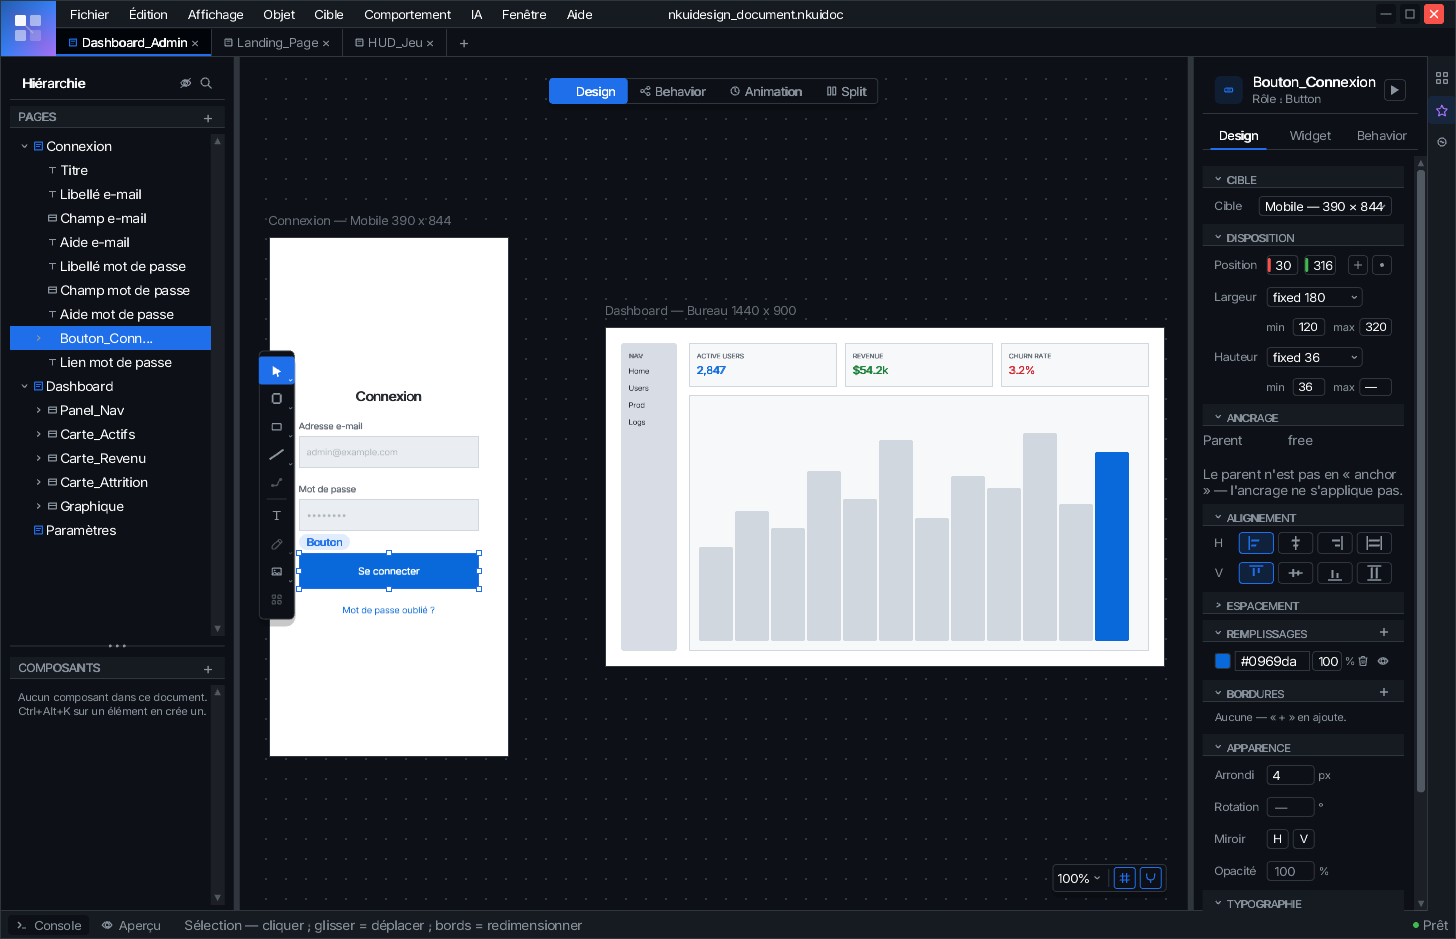
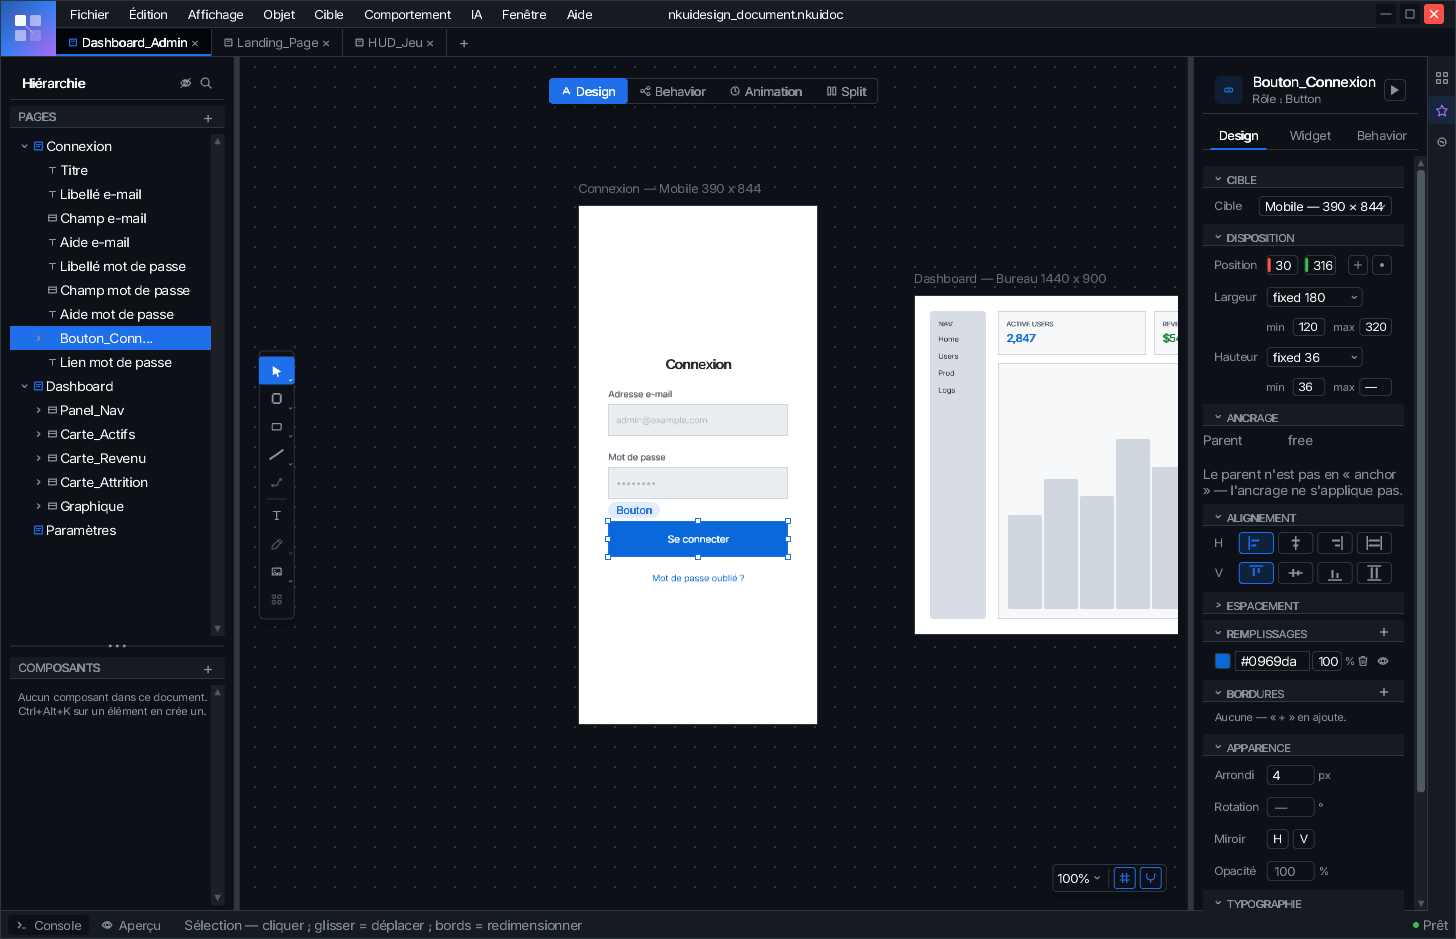
NkUIDesign : tranche 4 (InspectorPanel) -- LA GRILLE NOMMEE, 105 -> 86 sites, zero pixel
Lecture des 58 sites restants de l'InspectorPanel. Le gros n'etait ni marge
ni caprice : c'etait LA GRILLE, jamais nommee.

- ColChamps = 52 (Costume.h) : ou commencent les champs apres le libelle de
  rangee. SEPT sites recopiaient 52 ; les variantes improvisees
  (28/40/44/56/64/76) restent comptees -- c'est la dette de grille, visible,
  a trancher plus tard (unifier changerait beaucoup de rangees d'un coup).
- ColMiniLabel = 26 : la mini-colonne des libelles min/max (4 sites).
- Derives : pastilles 16 px -> (HRangee-16)/2 (3 sites), icones de mode
  8 px -> (HControle-8)/2 (2), boutons d'alignement de texte et boutons
  miroir -> BandeY + HControle (4, dont le pas des boutons miroir ecrit
  22 + EspSerre au lieu de 26).

⚠ Les largeurs de colonnes ne vivent PAS sur l'echelle d'espacement (elle
discipline les marges) : elles se NOMMENT, pour qu'une rangee ne puisse plus
improviser la sienne. C'est ecrit dans Costume.h a cote des constantes.

A/B : premiere comparaison invalidee A TEMPS -- la base (t2_sel_n1) precedait
le cadrage E3, donc tout l'ecran differait : temoin perime, detecte avant de
juger. Paire refaite par stash sur le meme HEAD : diff = AUCUN pixel. La
reference commitee inspecteur_selection (elle aussi anterieure a E3) est
regeneree ; la paire du panneau IA reste valable (confinee au panneau, que
E3 ne touche pas).

Coupure reseau en plein A/B : etat des lieux fait a la reprise (aucun stash
[…]

Changed region(s): [[0.1854, 0.1853, 0.8345, 0.8339]]

diff --git a/Applications/NKUIDesign/src/NKUIDesign/Panels.h b/Applications/NKUIDesign/src/NKUIDesign/Panels.h
@@ -9410,7 +9410,7 @@ namespace nkuidesign {
 					const float32 x0 = r.x + 12.f, x1 = r.x + r.w - 12.f;
 					costume::Texte(dl, F.px10, x0, costume::CentrerBande(F.px10, r.y),
 								   "Position", ctx.theme.textMuted);
-					const float32 champs0 = x0 + 52.f;
+					const float32 champs0 = x0 + costume::ColChamps;
 					const float32 wBtns = 2.f * 20.f + 4.f;
 					const float32 colW = (x1 - champs0 - wBtns - 12.f) * 0.5f;
 					const NkRect rx = {champs0, costume::BandeY(r.y), colW - 3.f, costume::HControle};
@@ -9568,7 +9568,7 @@ namespace nkuidesign {
 				const float32 x0 = r.x + 12.f;
 				costume::Texte(dl, F.px10, x0, costume::CentrerBande(F.px10, r.y), titre,
 							   ctx.theme.textMuted);
-				const NkRect rb = {x0 + 52.f, costume::BandeY(r.y), 96.f, costume::HControle};
+				const NkRect rb = {x0 + costume::ColChamps, costume::BandeY(r.y), 96.f, costume::HControle};
 				char b[96];
 				if (metrique)
 					snprintf(b, sizeof(b), "« %s »", d.valueMetric);
@@ -9602,15 +9602,17 @@ namespace nkuidesign {
 				// référence les résume en texte, l'édition prime — écart nommé).
 				{
 					const NkRect r2 = ctx.NextItemRect(-1.f, 22.f);
-					const float32 mx0 = r2.x + 12.f + 52.f;
+					const float32 mx0 = r2.x + 12.f + costume::ColChamps;
 					const float32 moitie = (r2.x + r2.w - 12.f - mx0 - 8.f) * 0.5f;
 					costume::Texte(dl, F.px9, mx0, costume::CentrerY(F.px9, r2.y + 2.f, 18.f),
 								   "min", ctx.theme.textMuted);
-					const NkRect rmin = {mx0 + 26.f, r2.y + 2.f, moitie - 26.f, 18.f};
+					const NkRect rmin = {mx0 + costume::ColMiniLabel, r2.y + 2.f,
+										 moitie - costume::ColMiniLabel, 18.f};
 					const float32 mx1 = mx0 + moitie + 8.f;
 					costume::Texte(dl, F.px9, mx1, costume::CentrerY(F.px9, r2.y + 2.f, 18.f),
 								   "max", ctx.theme.textMuted);
-					const NkRect rmax = {mx1 + 26.f, r2.y + 2.f, moitie - 26.f, 18.f};
+					const NkRect rmax = {mx1 + costume::ColMiniLabel, r2.y + 2.f,
+										 moitie - costume::ColMiniLabel, 18.f};
 					char id[48];
 					snprintf(id, sizeof(id), "insp.dmin.%s", titre);
 					bool bouge = ChampNombre(ctx, id, rmin, d.minVal, 1.f, 0.f, 4096.f, true, true);
@@ -10116,8 +10118,8 @@ namespace nkuidesign {
 																				 : 0;
 					static const char *const kCles[3] = {"gauche", "centre", "droite"};
 					for (int32 i = 0; i < 4; ++i) {
-						const NkRect cb = {champs0 + (btnW + 4.f) * (float32)i, r.y + 3.f, btnW,
-										   20.f};
+						const NkRect cb = {champs0 + (btnW + 4.f) * (float32)i, costume::BandeY(r.y),
+										   btnW, costume::HControle};
 						const bool actif = (i == courant);
 						if (actif) {
 							NkColor voile = ctx.theme.accent;
@@ -10165,8 +10167,8 @@ namespace nkuidesign {
 					const float32 champs0 = x0 + wLib;
 					const float32 btnW = (x1 - champs0 - 2.f * 4.f) / 3.f;
 					for (int32 i = 0; i < 3; ++i) {
-						const NkRect cb = {champs0 + (btnW + 4.f) * (float32)i, r.y + 3.f, btnW,
-										   20.f};
+						const NkRect cb = {champs0 + (btnW + 4.f) * (float32)i, costume::BandeY(r.y),
+										   btnW, costume::HControle};
 						dl.AddRectFilled(cb, CouleurInput(), 4.f);
 						dl.AddRect(cb, ctx.theme.border, 1.f, 4.f);
 						const float32 cxg = cb.x + cb.w * 0.5f;
@@ -10318,9 +10320,11 @@ namespace nkuidesign {
 				BoiteChamp(ctx, rb, b);
 				// l'icône du mode, à droite dans la boîte
 				if (d.mode == NkSizeMode::Expand)
-					costume::IcExpand(dl, rb.x + rb.w - 14.f, rb.y + 6.f, ctx.theme.accent);
+					costume::IcExpand(dl, rb.x + rb.w - 14.f,
+									  rb.y + (costume::HControle - 8.f) * 0.5f, ctx.theme.accent);
 				else if (d.mode == NkSizeMode::Fixed)
-					costume::IcFixed(dl, rb.x + rb.w - 14.f, rb.y + 6.f, ctx.theme.textMuted);
+					costume::IcFixed(dl, rb.x + rb.w - 14.f,
+									 rb.y + (costume::HControle - 8.f) * 0.5f, ctx.theme.textMuted);
 				// la valeur s'édite au glisser (quand elle existe et qu'aucune
 				// métrique ne prime)
 				if (porteValeur && !metrique) {
@@ -10337,15 +10341,17 @@ namespace nkuidesign {
 				}
 				// min / max en retrait
 				const NkRect r2 = ctx.NextItemRect(-1.f, 22.f);
-				const float32 mx0 = r2.x + 12.f + 52.f;
+				const float32 mx0 = r2.x + 12.f + costume::ColChamps;
 				const float32 moitie = (r2.x + r2.w - 12.f - mx0 - 8.f) * 0.5f;
 				costume::Texte(dl, F.px9, mx0, costume::CentrerY(F.px9, r2.y + 2.f, 18.f), "min",
 							   ctx.theme.textMuted);
-				const NkRect rmin = {mx0 + 26.f, r2.y + 2.f, moitie - 26.f, 18.f};
+				const NkRect rmin = {mx0 + costume::ColMiniLabel, r2.y + 2.f,
+										 moitie - costume::ColMiniLabel, 18.f};
 				const float32 mx1 = mx0 + moitie + 8.f;
 				costume::Texte(dl, F.px9, mx1, costume::CentrerY(F.px9, r2.y + 2.f, 18.f), "max",
 							   ctx.theme.textMuted);
-				const NkRect rmax = {mx1 + 26.f, r2.y + 2.f, moitie - 26.f, 18.f};
+				const NkRect rmax = {mx1 + costume::ColMiniLabel, r2.y + 2.f,
+										 moitie - costume::ColMiniLabel, 18.f};
 				char id[48];
 				snprintf(id, sizeof(id), "insp.min.%s", titre);
 				bool bouge = false;
@@ -10722,7 +10728,8 @@ namespace nkuidesign {
 				const float32 x0 = r.x + 12.f, x1 = r.x + r.w - 12.f;
 				costume::Texte(dl, F.px10, x0, costume::CentrerBande(F.px10, r.y), label,
 							   ctx.theme.textMuted);
-				const NkRect sw = {x0 + 52.f, r.y + 5.f, 16.f, 16.f};
+				const NkRect sw = {x0 + costume::ColChamps,
+								   r.y + (costume::HRangee - 16.f) * 0.5f, 16.f, 16.f};
 				if (buf[0]) {
 					dl.AddRectFilled(sw, CouleurHex(buf, ctx.theme.textMuted), 3.f);
 					dl.AddRect(sw, ctx.theme.border, 1.f, 3.f);
@@ -10808,7 +10815,8 @@ namespace nkuidesign {
 					const bool visible = simple ? true : n->fills[i].visible;
 					const NkColor encre = visible ? ctx.theme.text : ctx.theme.textDisabled;
 					// 1. la PASTILLE de couleur
-					const NkRect sw = {col.pastille, r.y + 5.f, 16.f, 16.f};
+					const NkRect sw = {col.pastille, r.y + (costume::HRangee - 16.f) * 0.5f, 16.f,
+										   16.f};
 					if (mFillsBuf[i][0]) {
 						dl.AddRectFilled(sw, CouleurHex(mFillsBuf[i], ctx.theme.textMuted), 3.f);
 						dl.AddRect(sw, ctx.theme.border, 1.f, 3.f);
@@ -10983,7 +10991,8 @@ namespace nkuidesign {
 						// LES MEMES COLONNES QUE REMPLISSAGES, par construction.
 						const ColonnesRangee col = ColonnesDe(r);
 						const bool visible = simple ? true : n->borders[i].visible;
-						const NkRect sw = {col.pastille, r.y + 5.f, 16.f, 16.f};
+						const NkRect sw = {col.pastille, r.y + (costume::HRangee - 16.f) * 0.5f, 16.f,
+										   16.f};
 						if (mBordsBuf[i][0]) {
 							dl.AddRectFilled(sw, CouleurHex(mBordsBuf[i], ctx.theme.textMuted),
 											 3.f);
@@ -11205,7 +11214,7 @@ namespace nkuidesign {
 						costume::Texte(dl, F.px10, x0,
 									   costume::CentrerBande(F.px10, r.y), "Arrondi",
 									   ctx.theme.textMuted);
-						const NkRect rr = {x0 + 52.f, costume::BandeY(r.y), 48.f, costume::HControle};
+						const NkRect rr = {x0 + costume::ColChamps, costume::BandeY(r.y), 48.f, costume::HControle};
 						// MULTI-SÉLECTION COMPRISE : « — » si les rayons diffèrent.
 						ChampNombreMulti(
 							ctx, "insp.app.rayon", rr, 0.5f, 0.f, 128.f,
@@ -11233,7 +11242,7 @@ namespace nkuidesign {
 						costume::Texte(dl, F.px10, x0,
 									   costume::CentrerBande(F.px10, r.y), "Rotation",
 									   ctx.theme.textMuted);
-						const NkRect rr = {x0 + 52.f, costume::BandeY(r.y), 48.f, costume::HControle};
+						const NkRect rr = {x0 + costume::ColChamps, costume::BandeY(r.y), 48.f, costume::HControle};
 						if (peut) {
 							ChampNombreMulti(
 								ctx, "insp.app.rotation", rr, 1.f, -360.f, 360.f,
@@ -11280,8 +11289,9 @@ namespace nkuidesign {
 						for (uint32 k = 0; k < 2; ++k) {
 							const bool actif = (k == 0) ? n->miroirH : n->miroirV;
 							const char *lib = (k == 0) ? "H" : "V";
-							const NkRect rb = {x0 + 52.f + (float32)k * 26.f, r.y + 3.f, 22.f,
-											   20.f};
+							const NkRect rb = {x0 + costume::ColChamps
+												   + (float32)k * (22.f + (float32)costume::EspSerre),
+											   costume::BandeY(r.y), 22.f, costume::HControle};
 							const bool sv = ctx.popupDepth == 0
 											&& NkGuiRectContains(rb, ctx.input.mousePos);
 							dl.AddRectFilled(rb, actif ? ctx.theme.accent : CouleurInput(), 4.f);
@@ -11313,7 +11323,7 @@ namespace nkuidesign {
 						costume::Texte(dl, F.px10, x0,
 									   costume::CentrerBande(F.px10, r.y), "Opacité",
 									   ctx.theme.textMuted);
-						const NkRect ro = {x0 + 52.f, costume::BandeY(r.y), 48.f, costume::HControle};
+						const NkRect ro = {x0 + costume::ColChamps, costume::BandeY(r.y), 48.f, costume::HControle};
 						dl.AddRectFilled(ro, CouleurInput(), 4.f);
 						dl.AddRect(ro, ctx.theme.border, 1.f, 4.f);
 						costume::Texte(dl, F.px11, ro.x + costume::PadChamp,

diff --git a/Applications/NKUIDesign/src/NKUIDesign/Costume.h b/Applications/NKUIDesign/src/NKUIDesign/Costume.h
@@ -261,6 +261,17 @@ namespace nkuidesign {
 		/// L'ancien « 10 » etait la valeur la plus recopiee du panneau (11 fois).
 		constexpr float32 PadPanneau = (float32)EspLarge;
 
+		/// LA GRILLE DE L'INSPECTEUR — deux colonnes nommees.
+		/// `ColChamps` : ou commencent les champs apres le libelle de rangee
+		/// (« Position », « Police », les pastilles). Sept sites recopiaient 52.
+		/// `ColMiniLabel` : la mini-colonne des libelles « min »/« max » (px9).
+		/// ⚠ Les LARGEURS de colonnes ne vivent pas sur l'echelle d'espacement
+		///    (2/4/8/12/16/24 discipline les MARGES) : elles se nomment pour
+		///    qu'une rangee ne puisse plus improviser la sienne. Les variantes
+		///    restantes (28/40/44/56/64/76) sont la DETTE de grille, comptee.
+		constexpr float32 ColChamps = 52.f;
+		constexpr float32 ColMiniLabel = 26.f;
+
 		// ═════════════════════════════════════════════════════════════════════
 		//  2. LES ICÔNES — chaque tracé recopié du JSX (viewBox = px écran)
 		// ═════════════════════════════════════════════════════════════════════
